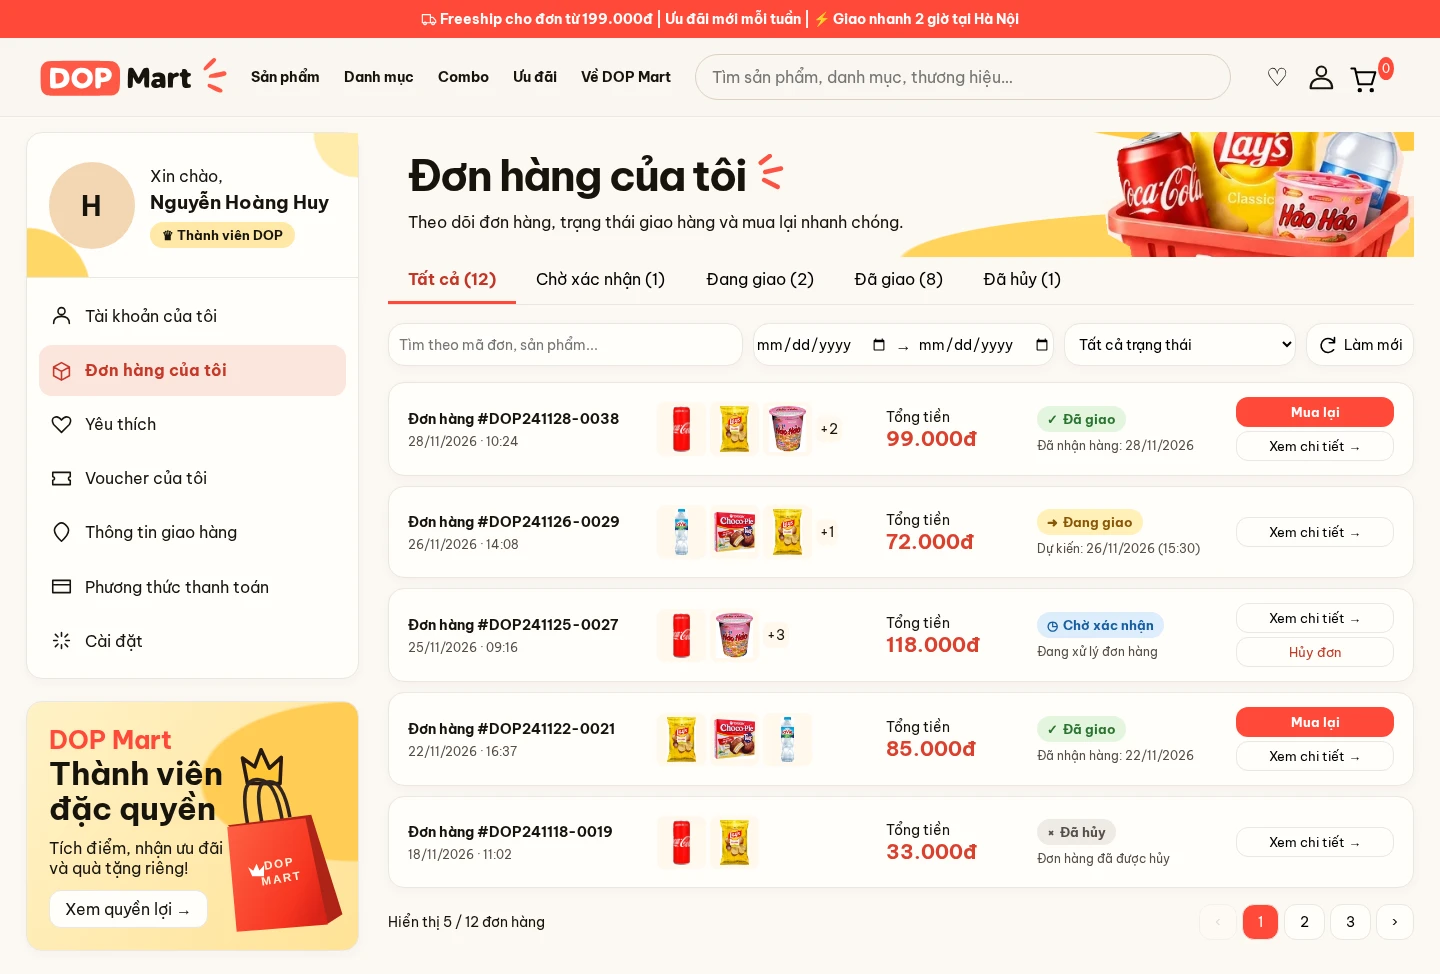
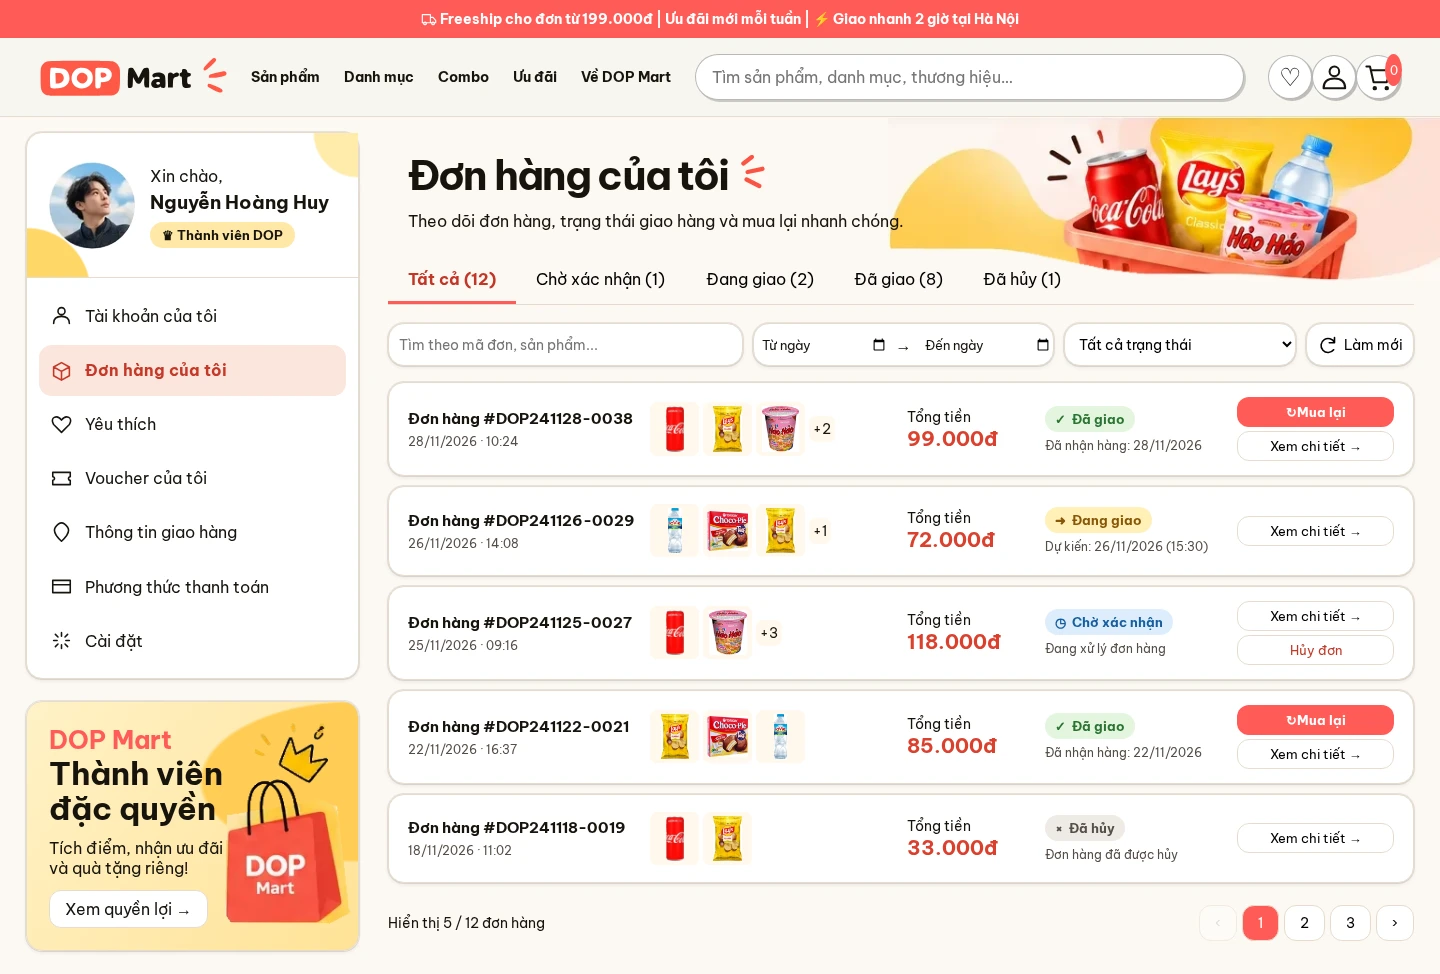
Align order history with approved artwork and repair filter reset on current storefront

diff --git a/storefront-ui/homepage/orders.html b/storefront-ui/homepage/orders.html
@@ -1,13 +1,13 @@
 <!doctype html><html lang="vi"><head><meta charset="utf-8"><meta name="viewport" content="width=device-width, initial-scale=1"><title>Đơn hàng của tôi | DOP Mart</title><link rel="stylesheet" href="css/tokens.css"><link rel="stylesheet" href="css/base.css"><link rel="stylesheet" href="css/components.css"><link rel="stylesheet" href="css/layout.css"><link rel="stylesheet" href="css/pages/orders.css"></head><body><div class="announcement"><svg aria-hidden="true" viewBox="0 0 24 24" fill="none" stroke="currentColor" stroke-width="1.7" stroke-linecap="round" stroke-linejoin="round"><path d="M2 4h12v12H2z M14 8h4l4 5v3h-8"/><circle cx="6" cy="17" r="2"/><circle cx="18" cy="17" r="2"/></svg> Freeship cho đơn từ 199.000đ  |  Ưu đãi mới mỗi tuần  | ⚡ Giao nhanh 2 giờ tại Hà Nội</div><header class="header"><div class="wrap header-inner"><button class="icon menu" aria-label="Danh mục">&#9776;</button><a class="logo logo--accented" href="index.html" aria-label="DOP Mart – Trang chủ"><svg aria-hidden="true" viewBox="0 0 315 67"><use href="assets/images/dop-mart.svg#accented"/></svg></a><nav class="nav"><a href="index.html#products">Sản phẩm</a><a href="index.html#categories">Danh mục</a><a href="deals.html#combos">Combo</a><a href="deals.html">Ưu đãi</a><a href="index.html#hero">Về DOP Mart</a></nav><input class="search" type="search" placeholder="Tìm sản phẩm, danh mục, thương hiệu…" aria-label="Tìm sản phẩm"><div class="actions"><button class="icon mobile-search" aria-label="Tìm kiếm"><svg aria-hidden="true" viewBox="0 0 24 24" fill="none" stroke="currentColor" stroke-width="1.7" stroke-linecap="round" stroke-linejoin="round"><circle cx="10" cy="10" r="7"/><path d="m15 15 7 7"/></svg></button><button class="icon" id="favorites" aria-label="Yêu thích">♡</button><a class="icon account" href="login.html" aria-label="Tài khoản"><svg aria-hidden="true" viewBox="0 0 24 24" fill="none" stroke="currentColor" stroke-width="1.7" stroke-linecap="round" stroke-linejoin="round"><circle cx="12" cy="7" r="4"/><path d="M3 21q0-8 9-8t9 8z"/></svg></a><button class="icon" id="cart" aria-label="Giỏ hàng"><svg aria-hidden="true" viewBox="0 0 24 24" fill="none" stroke="currentColor" stroke-width="1.7" stroke-linecap="round" stroke-linejoin="round"><circle cx="9" cy="21" r="1"/><circle cx="19" cy="21" r="1"/><path d="M2 3h3l3 13h11l3-10H6"/></svg><sup class="cart-count">0</sup></button></div></div></header>
 <main class="orders-layout">
  <aside class="side">
-  <section class="panel"><div class="profile"><span class="avatar" aria-hidden="true">H</span><div>Xin chào,<h2>Nguyễn Hoàng Huy</h2><strong>♛ Thành viên DOP</strong></div></div>
+  <section class="panel"><div class="profile"><img class="avatar" src="assets/images/orders/profile.webp" alt=""><div>Xin chào,<h2>Nguyễn Hoàng Huy</h2><strong>♛ Thành viên DOP</strong></div></div>
   <nav class="account-links" aria-label="Tài khoản"><a href="/profile" ><svg aria-hidden="true" viewBox="0 0 24 24" fill="none" stroke="currentColor" stroke-width="1.8" stroke-linejoin="round" stroke-linecap="round"><path d="M3 21q0-8 9-8t9 8 M16 7a4 4 0 1 1-8 0 4 4 0 1 1 8 0"/></svg>Tài khoản của tôi</a><a href="orders.html" aria-current="page"><svg aria-hidden="true" viewBox="0 0 24 24" fill="none" stroke="currentColor" stroke-width="1.8" stroke-linejoin="round" stroke-linecap="round"><path d="M3 8l9-5 9 5v10l-9 5-9-5z M3 8l9 5 9-5m-9 5v10"/></svg>Đơn hàng của tôi</a><a href="/profile" ><svg aria-hidden="true" viewBox="0 0 24 24" fill="none" stroke="currentColor" stroke-width="1.8" stroke-linejoin="round" stroke-linecap="round"><path d="M12 21 3 12C-2 4 7 0 12 7c5-7 14-3 9 5z"/></svg>Yêu thích</a><a href="deals.html#vouchers" ><svg aria-hidden="true" viewBox="0 0 24 24" fill="none" stroke="currentColor" stroke-width="1.8" stroke-linejoin="round" stroke-linecap="round"><path d="M2 5h20v5a2 2 0 0 0 0 4v5H2v-5a2 2 0 0 0 0-4z"/></svg>Voucher của tôi</a><a href="/profile" ><svg aria-hidden="true" viewBox="0 0 24 24" fill="none" stroke="currentColor" stroke-width="1.8" stroke-linejoin="round" stroke-linecap="round"><path d="M12 22Q1 12 5 6q7-10 14 0 4 6-7 16z"/></svg>Thông tin giao hàng</a><a href="/profile" ><svg aria-hidden="true" viewBox="0 0 24 24" fill="none" stroke="currentColor" stroke-width="1.8" stroke-linejoin="round" stroke-linecap="round"><path d="M2 5h20v14H2z M2 10h20"/></svg>Phương thức thanh toán</a><a href="/profile" ><svg aria-hidden="true" viewBox="0 0 24 24" fill="none" stroke="currentColor" stroke-width="1.8" stroke-linejoin="round" stroke-linecap="round"><path d="M12 3v4m0 10v4M3 12h4m10 0h4M5 5l3 3m8 8 3 3M5 19l3-3m8-8 3-3"/></svg>Cài đặt</a></nav></section>
-  <section class="member"><img class="member-art" src="assets/images/orders/member-bag.svg" alt=""><b>DOP Mart</b><h2>Thành viên<br>đặc quyền</h2><p>Tích điểm, nhận ưu đãi<br>và quà tặng riêng!</p><a href="deals.html">Xem quyền lợi →</a></section>
+  <section class="member"><img class="member-art" src="assets/images/orders/member-bag.webp" alt=""><b>DOP Mart</b><h2>Thành viên<br>đặc quyền</h2><p>Tích điểm, nhận ưu đãi<br>và quà tặng riêng!</p><a href="deals.html">Xem quyền lợi →</a></section>
  </aside>
- <section class="history"><header class="history-hero"><div><h1>Đơn hàng của tôi</h1><p>Theo dõi đơn hàng, trạng thái giao hàng và mua lại nhanh chóng.</p></div><img alt="" src="assets/images/deals/hero.webp"></header>
+ <section class="history"><header class="history-hero"><div><h1>Đơn hàng của tôi</h1><p>Theo dõi đơn hàng, trạng thái giao hàng và mua lại nhanh chóng.</p></div><img alt="" src="assets/images/orders/order-banner.webp"></header>
  <nav id="tabs" aria-label="Trạng thái đơn hàng"></nav>
- <form class="filters" id="filters"><input type="search" name="query" aria-label="Tìm theo mã đơn hoặc sản phẩm" placeholder="Tìm theo mã đơn, sản phẩm..."><div class="dates"><input type="date" name="from" aria-label="Từ ngày"><span>→</span><input type="date" name="to" aria-label="Đến ngày"></div><select name="state" aria-label="Trạng thái"></select><button type="reset"><svg aria-hidden="true" viewBox="0 0 24 24" fill="none" stroke="currentColor" stroke-width="1.8" stroke-linejoin="round" stroke-linecap="round"><path d="M20 10A8 8 0 1 0 19 18M20 4v6h-6"/></svg> Làm mới</button></form>
+ <form class="filters" id="filters"><input type="search" name="query" aria-label="Tìm theo mã đơn hoặc sản phẩm" placeholder="Tìm theo mã đơn, sản phẩm..."><div class="dates"><label class="date-field"><span>Từ ngày</span><input type="date" name="from" aria-label="Từ ngày"></label><span>→</span><label class="date-field"><span>Đến ngày</span><input type="date" name="to" aria-label="Đến ngày"></label></div><select name="state" aria-label="Trạng thái"></select><button type="reset"><svg aria-hidden="true" viewBox="0 0 24 24" fill="none" stroke="currentColor" stroke-width="1.8" stroke-linejoin="round" stroke-linecap="round"><path d="M20 10A8 8 0 1 0 19 18M20 4v6h-6"/></svg> Làm mới</button></form>
  <div id="list" aria-live="polite"></div><footer class="pager"><span id="count"></span><nav id="pages" aria-label="Trang đơn hàng"></nav></footer>
  </section>
 </main>

diff --git a/storefront-ui/homepage/css/pages/orders.css b/storefront-ui/homepage/css/pages/orders.css
@@ -19,7 +19,7 @@
 .thumbs img,.thumbs span{border-radius:7px;background:#fff8ed;padding:4px}
 .order small{color:#564e46}.order .actions-row button{min-height:30px}
 .badge-state::before{display:inline-block;margin-right:.4em}
-.badge-state.done::before{content:"✓"}.badge-state.shipping::before{content:"➜"}.badge-state.waiting::before{content:"◷"}.badge-state.cancelled::before{content:"×"}
+.badge-state.done::before{content:"✓"}.badge-state.shipping::before{content:"➜"}.badge-state.waiting::before{content:"\25f7"}.badge-state.cancelled::before{content:"×"}
 .order [data-action=cancel]{color:#be3b29}
 .pager button:disabled{opacity:.45}
 @media(min-width:1101px){
@@ -33,3 +33,25 @@
 @media(max-width:600px){.order .thumbs{grid-column:1/-1}.history-hero h1::after{width:.5em}}
 .history-hero>div{flex:1;min-width:0}.history-hero img{flex:none}
 @media(max-width:1100px){.history-hero>div{padding-right:14px}.history-hero p{max-width:48ch}}
+
+.profile .avatar{display:block;object-fit:cover;flex-shrink:0}
+.member-art{right:1%;bottom:6%;width:43%;max-height:91%;object-fit:contain}
+.history-hero{background:none}
+.history-hero img{object-fit:contain;object-position:right top}
+@media(min-width:1101px){
+ .history{position:relative}
+ .history-hero{overflow:visible}
+ .history-hero img{position:absolute;right:-1.8vw;top:-1.05vw;width:38.3vw;height:auto;z-index:-1}
+ .history-hero{min-height:8.65vw}
+ .history-hero>div{flex:0 1 auto;max-width:62%}
+ .order{grid-template-columns:1.22fr 1.29fr .67fr .95fr .83fr}
+}
+.date-field{position:relative;flex:1;min-width:0}
+.dates .date-field input{box-sizing:border-box;width:100%;height:38px}
+.date-field span{position:absolute;left:8px;top:50%;transform:translateY(-50%);pointer-events:none;font-size:13px}
+.date-field:not(.has-value):not(:focus-within) input::-webkit-datetime-edit{opacity:0}
+.date-field:focus-within span,.date-field.has-value span{visibility:hidden}
+@media(min-width:1101px){.order{min-height:6.22vw}.pager{margin-top:22px}.order>div:first-child b{font-size:clamp(14px,1.06vw,17px)}.actions-row button.buy::before{content:"\21bb ";}.history-hero h1{font-size:clamp(34px,2.85vw,48px)}}
+
+.header .actions #cart{position:relative;display:inline-grid;place-items:center}
+.header .actions #cart .cart-count{position:absolute;top:-2px;right:-3px;min-width:17px;height:17px;line-height:17px;padding:0 3px}

diff --git a/storefront-ui/homepage/js/orders.js b/storefront-ui/homepage/js/orders.js
@@ -43,6 +43,10 @@ function row(order) {
  return '<article class="order" data-id="'+id+'"><div><b>Đơn hàng #'+id+'</b><small>'+displayDate(date)+' · '+time+'</small></div><div class="thumbs">'+photos+(items.length>previewSize?'<span>+'+(items.length-previewSize)+'</span>':'')+'</div><div>Tổng tiền<strong>'+money(total)+'</strong></div><div><span class="badge-state '+state+'">'+states[state]+'</span><small>'+({done:'Đã nhận hàng: '+displayDate(date),shipping:id==='DOP241126-0029'?'Dự kiến: 26/11/2026 (15:30)':'Đang giao hàng',waiting:'Đang xử lý đơn hàng',cancelled:'Đơn hàng đã được hủy'}[state])+'</small></div><div class="actions-row">'+buttons+'</div></article>';
 }
 function render() {
+ for (const key of ['from','to']) {
+  const input = form.elements[key];
+  input.parentElement.classList.toggle('has-value', Boolean(input.value));
+ }
  tabs.innerHTML = Object.entries(states).map(([key,label])=>'<button data-state="'+key+'" aria-pressed="'+(stateSelect.value===key)+'">'+label+' ('+orders.filter(o=>key==='all'||o.state===key).length+')</button>').join('');
  const matches=filteredOrders(), pages=Math.ceil(matches.length/5);
  page=Math.min(page,Math.max(1,pages));
@@ -53,7 +57,13 @@ function render() {
 }
 form.oninput=()=>{page=1;render()};
 form.onsubmit=e=>e.preventDefault();
-form.onreset=()=>queueMicrotask(()=>{page=1;render()});
+form.onreset = event => {
+ event.preventDefault();
+ for (const field of ['query','from','to']) form.elements[field].value = '';
+ stateSelect.value = 'all';
+ page = 1;
+ render();
+};
 tabs.onclick=e=>{if(e.target.dataset.state){stateSelect.value=e.target.dataset.state;page=1;render()}};
 document.querySelector('#pages').onclick=e=>{if(e.target.dataset.page){page=Number(e.target.dataset.page);render()}};
 function cartCount(){
